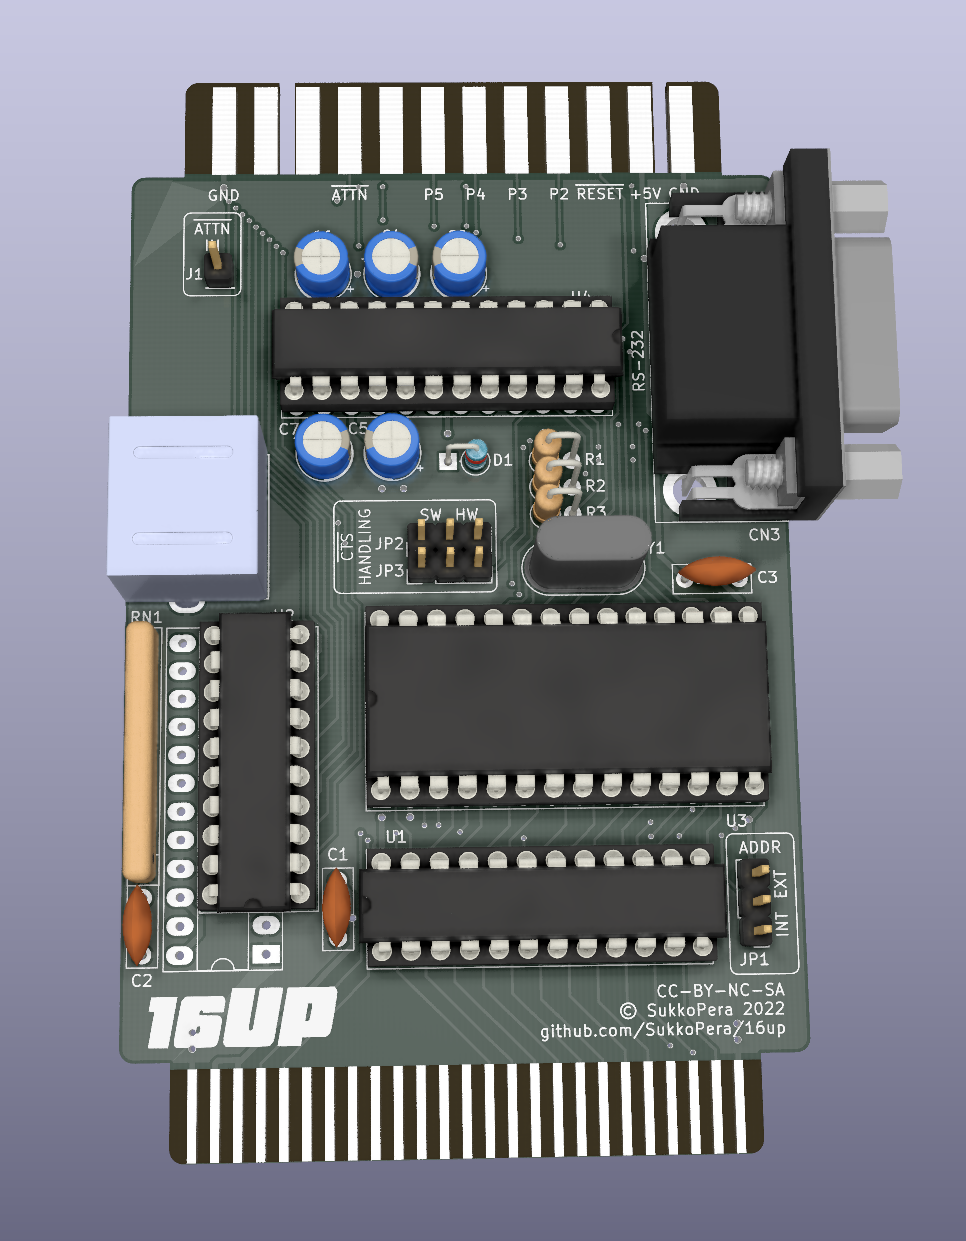
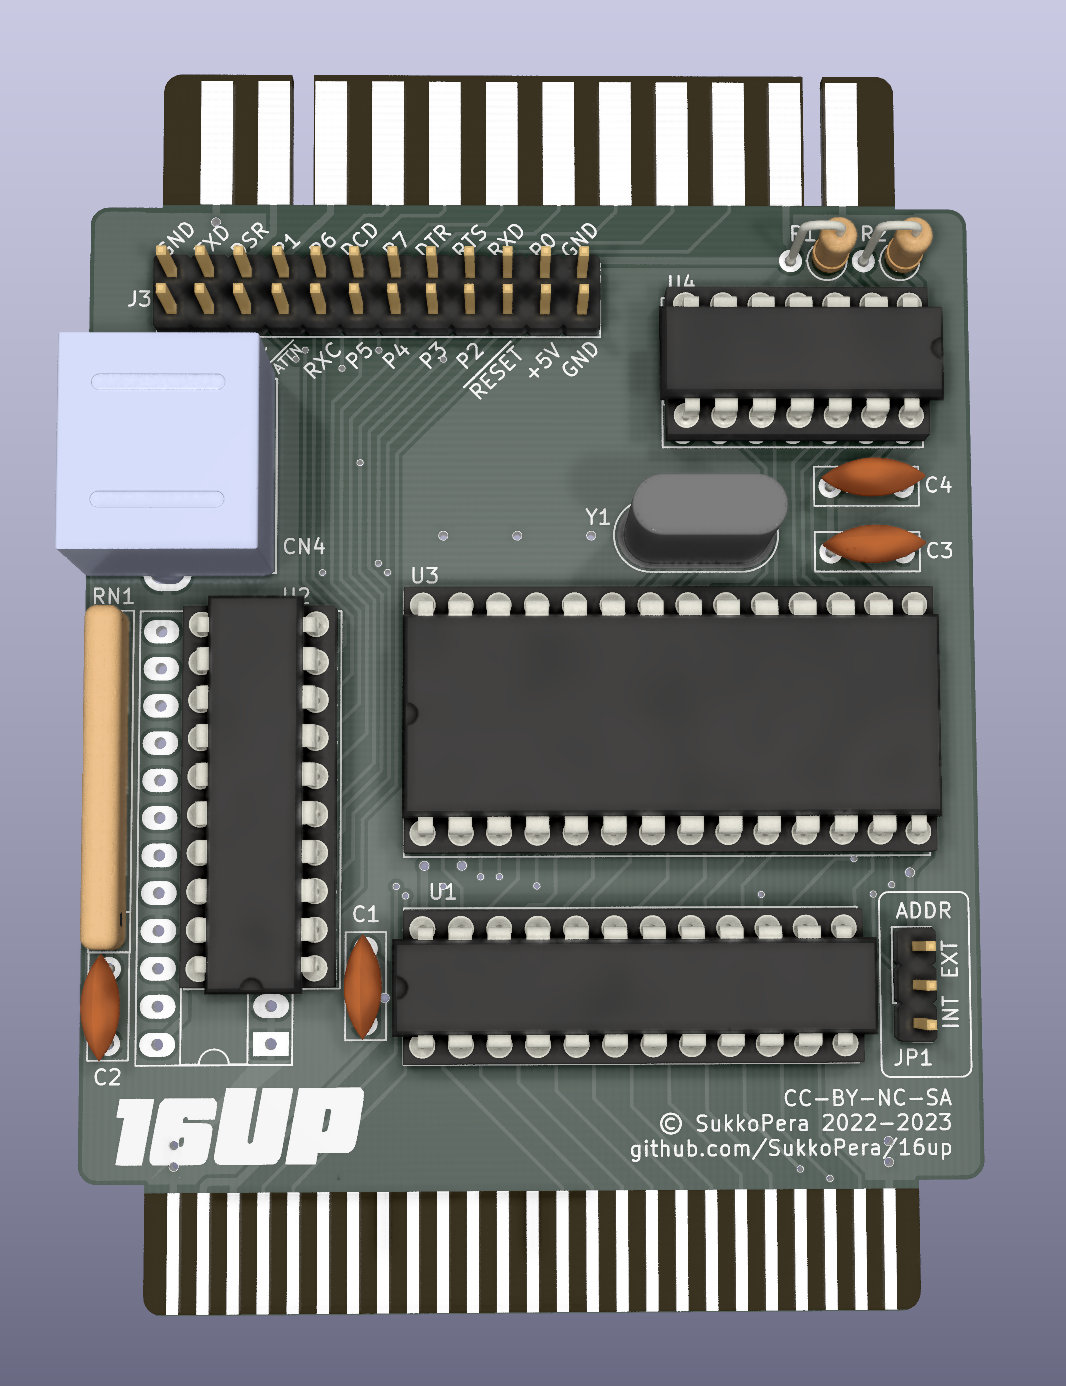
Update renders and board link

diff --git a/README.md b/README.md
@@ -70,16 +70,16 @@ If you are looking for a terminal emulator, I recommend [Term-80](https://plus4w
 This is fully functional as on the original +4.
 
 ### /ATTENTION signal
-The /ATTENTION signal is not present on the C16/116 Expansion Port. Thus, if you need it, you will need to provide the board with it through the */ATTN* (*J1*) connector on V2 or through the relevant pin of the J3 pin header on V3. The signal is available on pin 3 of the [IEC (Serial) port](doc/iec_serial.png) and it can be connected in parallel to any other device you already have on that port, just break it out.
+The /ATTENTION signal is not present on the C16/116 Expansion Port. Thus, if you need it, you will need to provide the board with it through the */ATTN* (*J1*) connector on V2 or through the relevant pin of the *J3* pin header on V3. The signal is available on pin 3 of the [IEC (Serial) port](doc/iec_serial.png) and it can be connected in parallel to any other device you already have on that port, just break it out.
 
 ### +5VDC power supply
 This is directly connected to the main power rails of the C16/116. Use common sense and do not draw "too much" power out of it.
 
 ### 9VAC power supply
-This is not present on the C16/116 Expansion Port and thus the corresponding pins of the User Port are left unconnected. This should not be a big deal though, as the main use case for this is to provide the higher voltages needed for a fully-compliant RS-232 interface, but 16UP V2 has that built-in in a way that does not require an actual higher-voltage supply, and the same applies for the recommended adapter for V3. Let me know if you find any User Port peripherals that require it.
+This is not present on the C16/116 Expansion Port and thus the corresponding pins of the User Port are left unconnected on V2, while on V3 they can be powered from the relevant pins of the *J3* pin header. This should not be a big deal though, as the main use case for this is to provide the higher voltages needed for a fully-compliant RS-232 interface but 16UP V2 has that built-in in a way that does not require an actual higher-voltage supply, and the same applies for the recommended adapter for V3. Let me know if you find any User Port peripherals that require it.
 
 ## Assembly
-The parallel port on the +4 is driven through a MOS 6529 (U2 on the board). Since these days that IC is pretty hard to get hold of, an alternative circuit based on a 74LS654 was designed by Daniël Mantione ans was integrated into the board. Depending on what you choose to use:
+The parallel port on the +4 is driven through a MOS 6529 (U2 on the board). Since these days that IC is pretty hard to get hold of, an alternative circuit based on a 74LS654 was designed by Daniël Mantione and integrated into the board. Depending on what you choose to use:
 - If you use an original MOS 6529: do NOT mount RN1.
 - If you use a 74LS654: mount RN1.
 
@@ -98,7 +98,11 @@ This documentation is distributed *as is* and WITHOUT ANY EXPRESS OR IMPLIED WAR
 ## Support the Project
 If you want to get some boards manufactured, you can get them from PCBWay through this link:
 
+### V2
 [![PCB from PCBWay](https://www.pcbway.com/project/img/images/frompcbway.png)](https://www.pcbway.com/project/shareproject/16UP_User_Port_Cartridge_for_the_Commodore_16_116_and_Plus_4_2d0ad268.html)
+
+### V3
+[![PCB from PCBWay](https://www.pcbway.com/project/img/images/frompcbway.png)](https://www.pcbway.com/project/shareproject/16UP_V3_User_Port_Cartridge_for_the_Commodore_16_116_and_Plus_4_e4fbe888.html)
 
 You get my gratitude and cheap, professionally-made and good quality PCBs, I get some credit that will help with this and [other projects](https://www.pcbway.com/project/member/shareproject/?bmbid=41100). You won't even have to worry about the various PCB options, it's all pre-configured for you!
 
